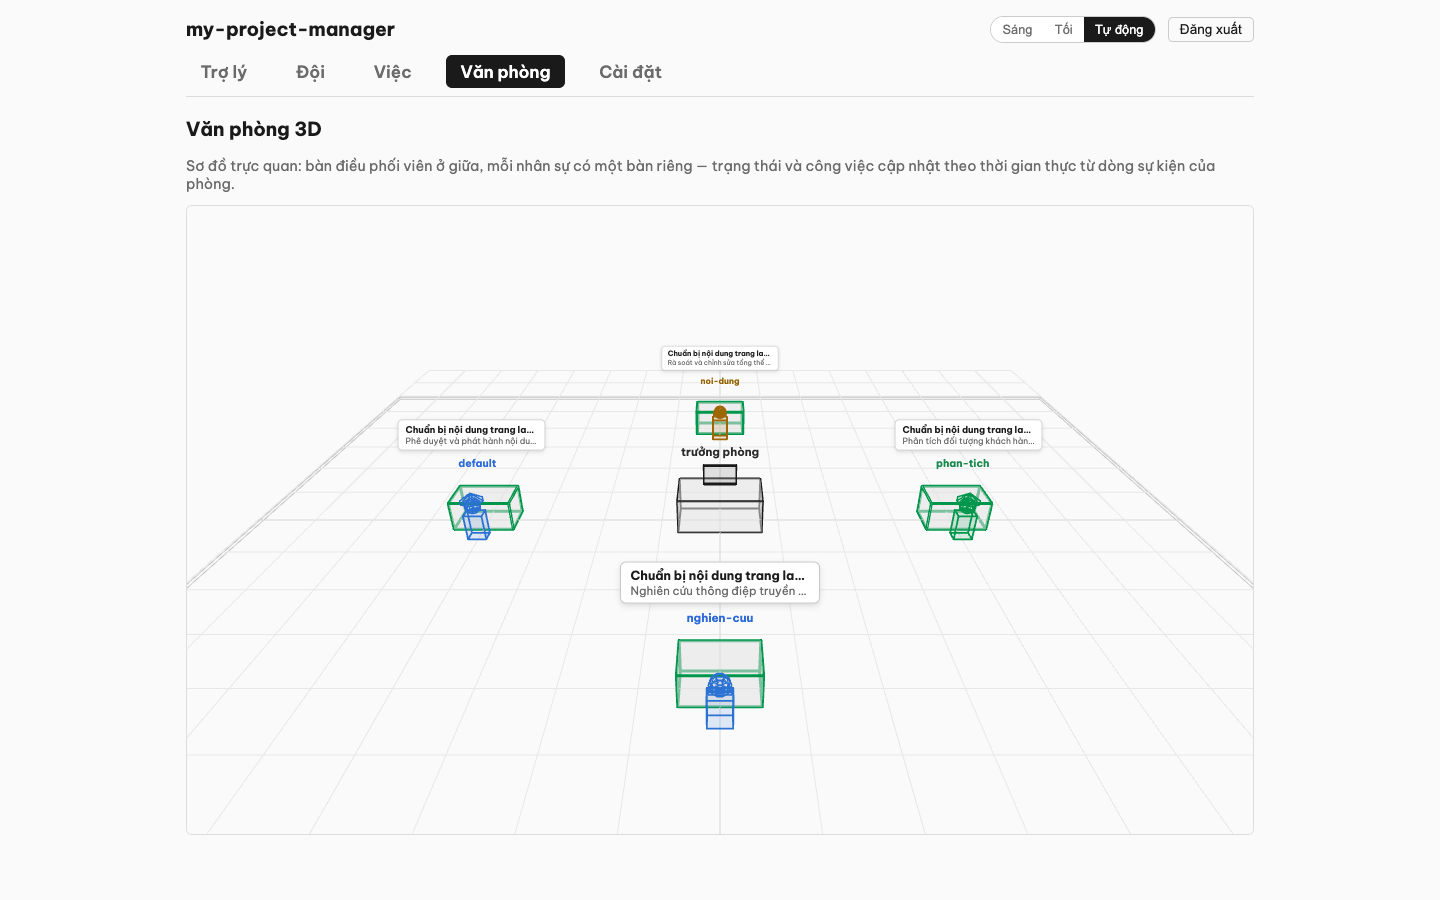
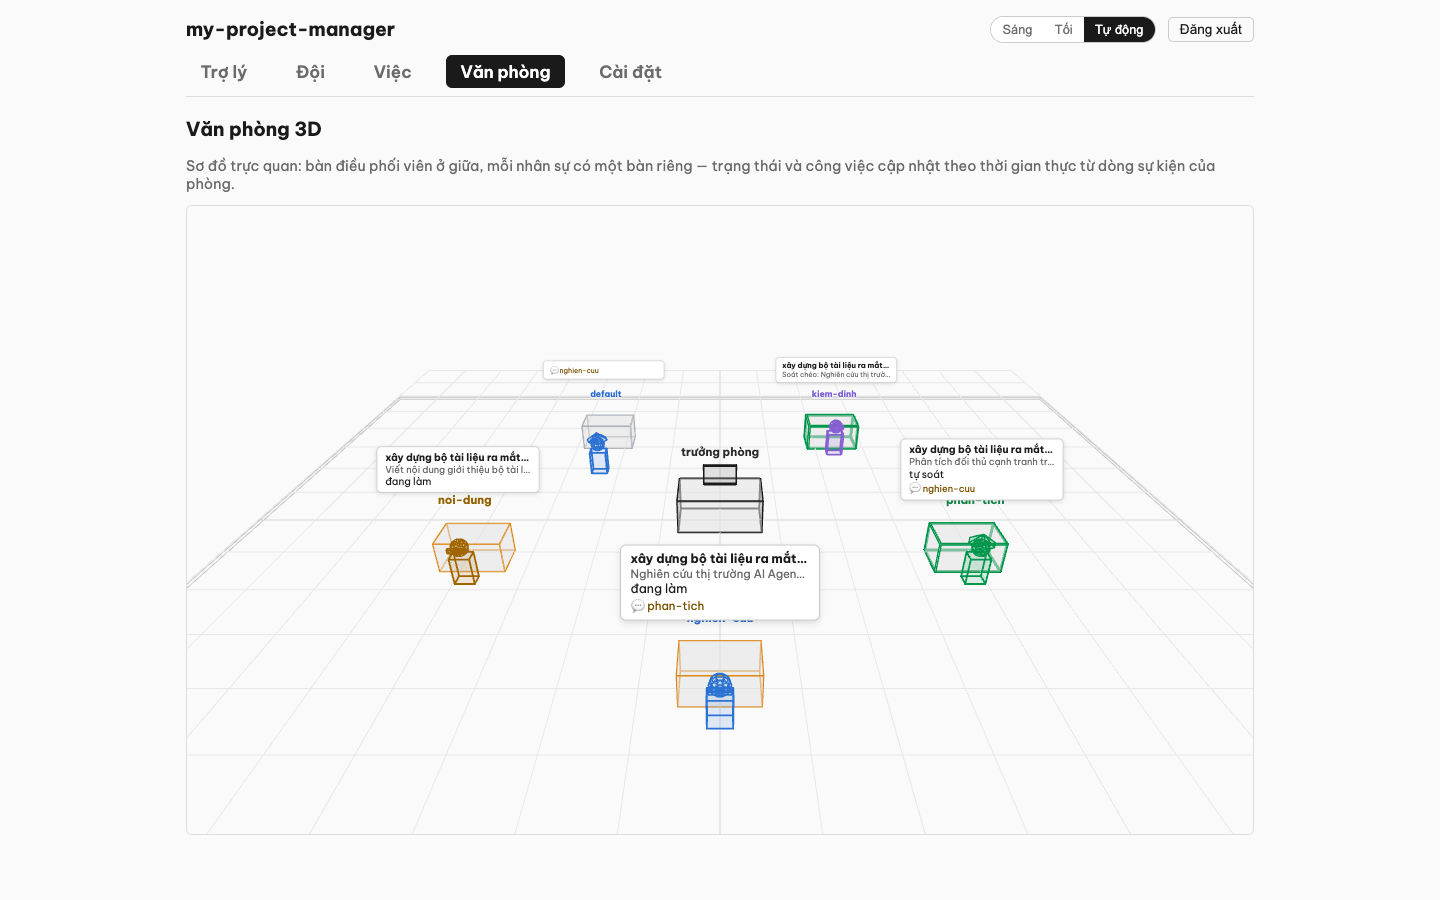
docs(office-3d): refresh screenshots with v13 phase tags + consult bubbles
- van-phong-3d-toan-canh: 5 staff active, phase tags (dang-lam/tu-soat/
  soat-cheo) + consult speech bubbles (who is asking whom)
- van-phong-3d-tu-soat-review: kiem-dinh peer-reviewing, nghien-cuu
  self-checking, phan-tich working concurrently
- user guide Van phong section notes the per-step phase on bubbles

diff --git a/docs/huong-dan-su-dung.md b/docs/huong-dan-su-dung.md
@@ -207,9 +207,14 @@ Vào **Trợ lý** (hoặc nhắn qua Telegram). Gõ câu hỏi/lệnh vào ô "
     thoại phía trên hiện việc + bước đang làm. V13 thêm bong bóng hỏi-đáp giữa 2 bàn (khi nhân sự hỏi ý kiến đồng nghiệp). Mọi chuyển động đều từ sự kiện thật — không có
     hoạt cảnh giả.
 
-    ![Văn phòng 3D — nhân sự đang làm việc (bàn cam = đang làm, xanh lá = đã xong)](images/van-phong-3d-dang-lam-viec.png)
+    Bong bóng còn hiện **giai đoạn của bước** theo thời gian thực: *đang làm* → *tự soát* →
+    *đang sửa* (khi nhân sự tự kiểm hoặc bị soát chéo yêu cầu sửa).
 
-    ![Văn phòng 3D — toàn cảnh đội 4 nhân sự quanh bàn trưởng phòng](images/van-phong-3d-toan-canh.png)
+    ![Văn phòng 3D — cả đội hoạt động: bong bóng hiện giai đoạn (đang làm / tự soát / soát chéo) và ai đang hỏi ý kiến ai](images/van-phong-3d-toan-canh.png)
+
+    ![Văn phòng 3D — kiem-dinh soát chéo, nghien-cuu tự soát, phan-tich đang làm cùng lúc](images/van-phong-3d-tu-soat-review.png)
+
+    ![Văn phòng 3D — nhân sự đang làm việc (bàn cam = đang làm, xanh lá = đã xong)](images/van-phong-3d-dang-lam-viec.png)
 - Nếu một agent **chết ngầm** (quá hạn không chạy), hệ thống tự nhắn cảnh báo cho bạn qua Telegram.
 
 ## B.6. Đổi giao diện (sáng / tối)